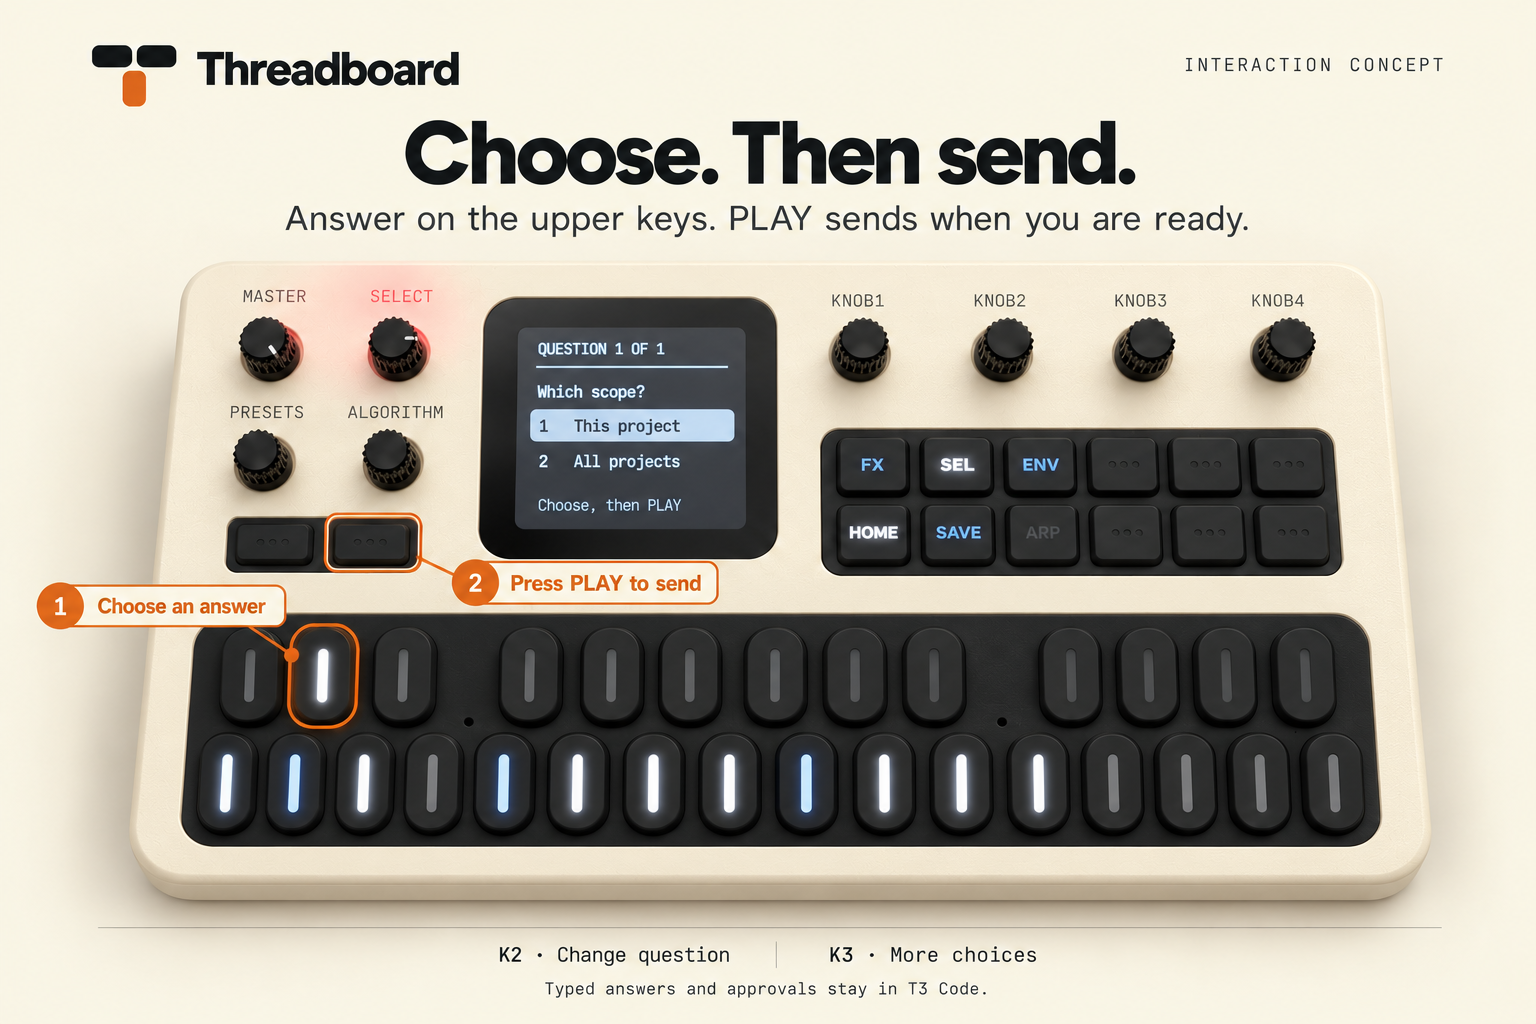
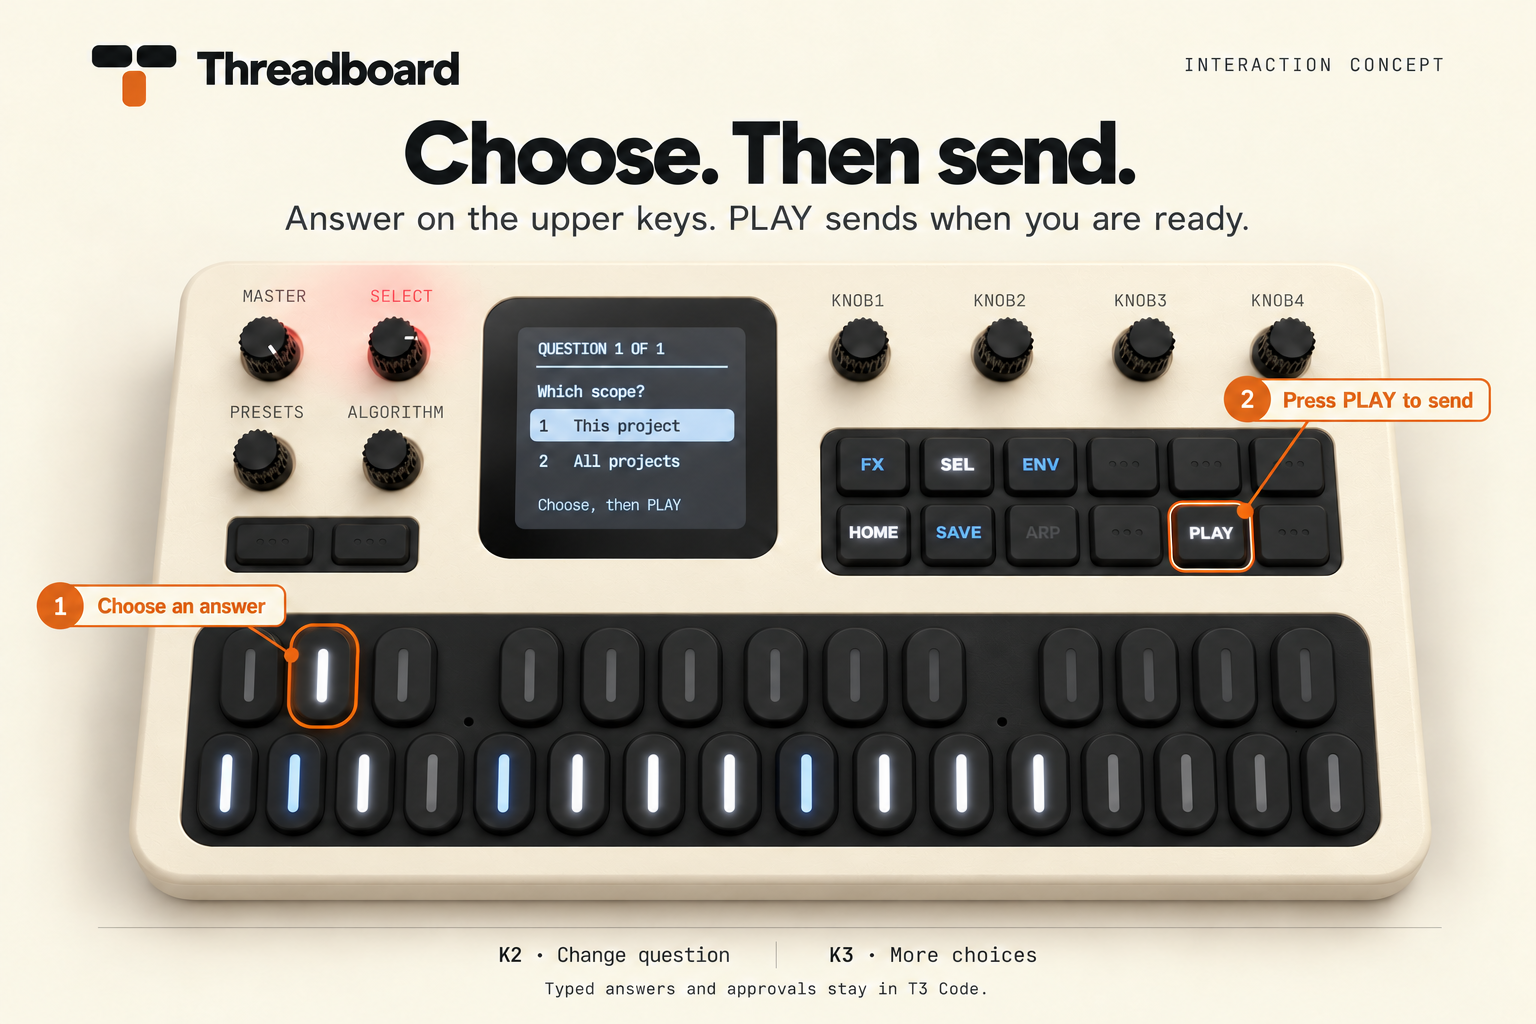
Correct PLAY button location in the interaction guide

diff --git a/docs/interactions.md b/docs/interactions.md
@@ -29,7 +29,10 @@ the selected thread's work, including delegated work.
 
 ## Answer a question
 
-![Choosing an answer with an upper key, then using the PLAY transport button to send.](assets/answer-question.png)
+![Choosing an answer with an upper key, then pressing PLAY in the bottom row of the right-hand button bank.](assets/answer-question.png)
+
+PLAY is four buttons to the right of HOME in the bottom row of the button bank
+to the right of the screen. It is second from the right edge.
 
 1. Select the thread asking the question.
 2. Press a black key for the corresponding answer. A single choice advances

diff --git a/README.md b/README.md
@@ -67,6 +67,9 @@ An unconfirmed submission stays locked so a retry cannot send it twice.
 | HOME | Show the control reference |
 | MASTER | Chime volume, with mute at zero |
 
+PLAY is in the bottom row of the button bank to the right of the screen,
+four buttons to the right of HOME and second from the right edge.
+
 The screen shows the project, thread title, status and a short response preview.
 Select a finished thread to read an excerpt of its final response in a dedicated
 result view. K1 scrolls it; PLAY opens the full thread in T3; SAVE + its white key
